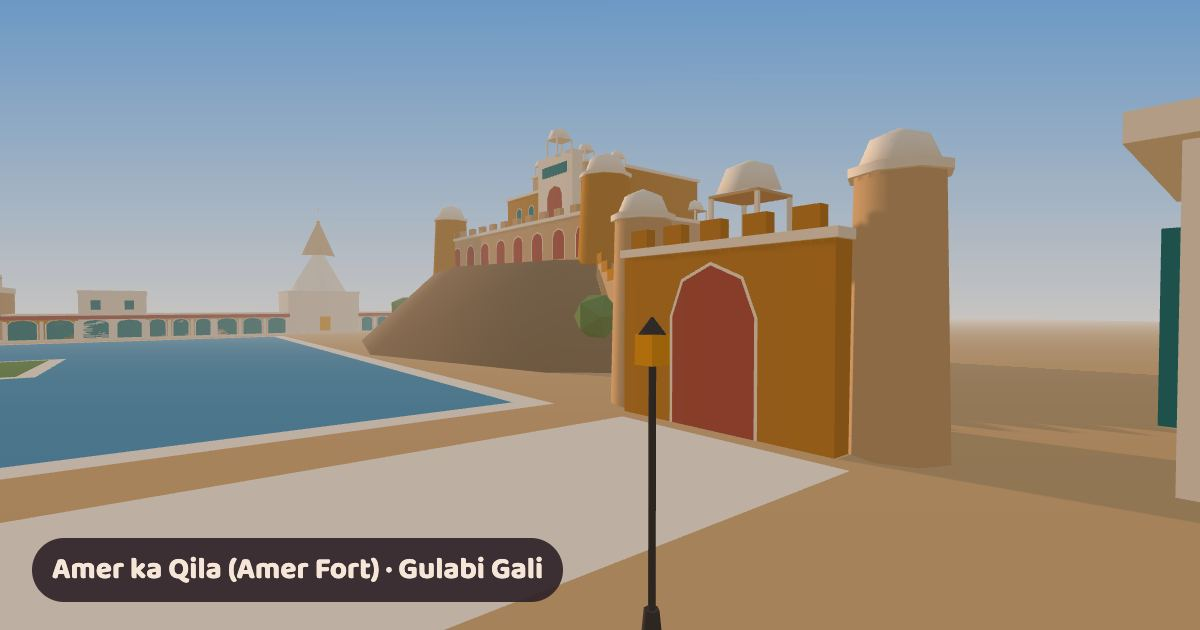
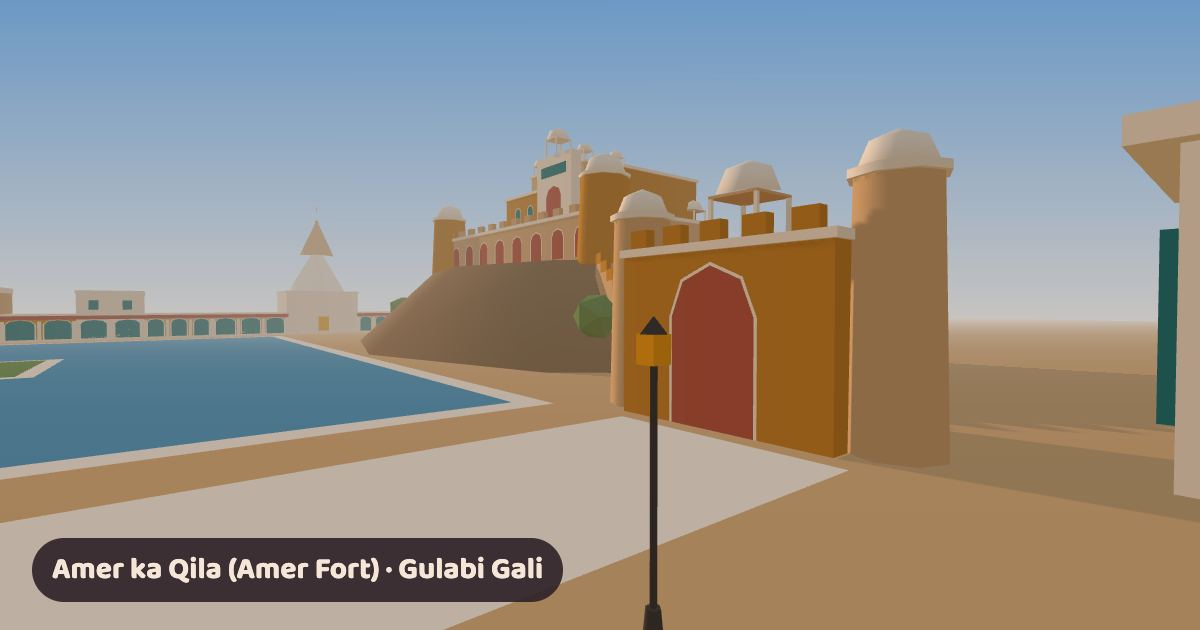
fix(links): a link to a landmark faces its building, not its card's ring
placeSpot turned the visitor toward the landmark's `at`, the middle of the ring its card opens in. For Amer
and Nahargarh that is the gate, and the taxi drop stands beyond it, so a link to either fort stood you with
your back to the fort (City Palace was 49 degrees off). It now faces the middle of the landmark's footprint,
the building itself; every other landmark is unchanged. The test checks every landmark's link faces within
45 degrees of its building and looks straight into it. The two forts' and City Palace's preview pictures are
remade from the corrected view.

diff --git a/frontend/src/world/placeLink.test.ts b/frontend/src/world/placeLink.test.ts
@@ -71,7 +71,7 @@ describe('a link to a place', () => {
 })
 
 describe.each(DISTRICTS)('%s: every place on its map round-trips to a clear spot at that place', (id) => {
-  it('landmarks: by the landmark (its card opens), facing it', async () => {
+  it('landmarks: by the landmark (its card opens), facing its building', async () => {
     const { def, colliders } = await load(id)
     for (const l of def.landmarks) {
       const item = mapItems(def, []).find((i) => i.id === l.id)!
@@ -84,6 +84,22 @@ describe.each(DISTRICTS)('%s: every place on its map round-trips to a clear spot
         l.id,
       ).toBe(false)
       expect(Math.hypot(spot.x - l.at.x, spot.z - l.at.z), l.id).toBeLessThanOrEqual(l.radius)
+      // facing the building itself (its footprint), not away from it: within 45 degrees of its middle, and
+      // looking straight ahead runs into it
+      const f = l.footprint
+      const mid = { x: (f.minX + f.maxX) / 2, z: (f.minZ + f.maxZ) / 2 }
+      const look = { x: Math.sin(spot.ry), z: Math.cos(spot.ry) }
+      const to = { x: mid.x - spot.x, z: mid.z - spot.z }
+      const cos = (look.x * to.x + look.z * to.z) / Math.hypot(to.x, to.z)
+      expect(cos, l.id).toBeGreaterThan(Math.cos(Math.PI / 4))
+      const ahead = Array.from({ length: 300 }, (_, i) => ({
+        x: spot.x + look.x * i * 0.5,
+        z: spot.z + look.z * i * 0.5,
+      }))
+      expect(
+        ahead.some((p) => hits(p, 0, f)),
+        l.id,
+      ).toBe(true)
     }
   })
 

diff --git a/frontend/src/world/placeLink.ts b/frontend/src/world/placeLink.ts
@@ -110,7 +110,8 @@ function besideProp(
 }
 
 /**
- * Where a link to `place` stands the visitor in a district, and the way they face: by a landmark where the
+ * Where a link to `place` stands the visitor in a district, and the way they face: by a landmark (facing its
+ * building) where the
  * auto-taxi sets riders down (in its ring, so its card opens), at the metro station, at a named viewpoint's
  * stair, by a bench or tapri (in
  * reach to sit) or in front of a poster wall, clear of everything. Null for a place the district does not have,
@@ -130,7 +131,10 @@ export function placeSpot(district: Pick<District, 'def' | 'colliders'>, place: 
   if (landmark) {
     const drop = TAXI[def.id].drops[landmark.id]
     if (!drop) return null
-    return { x: drop.x, z: drop.z, ry: Math.atan2(landmark.at.x - drop.x, landmark.at.z - drop.z) }
+    // facing the building (its footprint's middle), not `at`: a fort's `at` is its gate's ring, which the drop
+    // can stand beyond, and facing it would turn the visitor's back on the fort
+    const { minX, maxX, minZ, maxZ } = landmark.footprint
+    return { x: drop.x, z: drop.z, ry: Math.atan2((minX + maxX) / 2 - drop.x, (minZ + maxZ) / 2 - drop.z) }
   }
   const seat = /^(bench|tapri)-(\d+)$/.exec(place)
   if (seat) {
